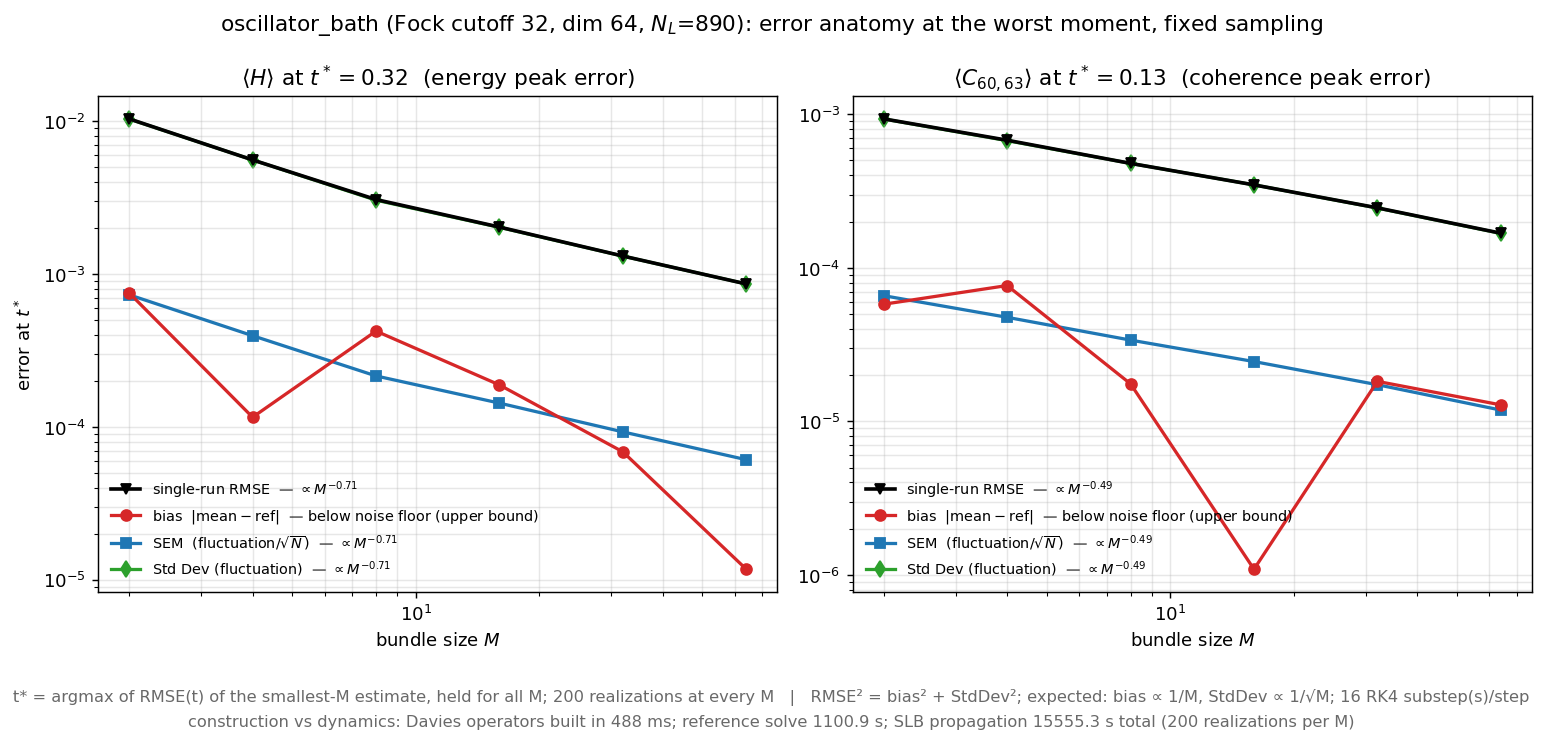
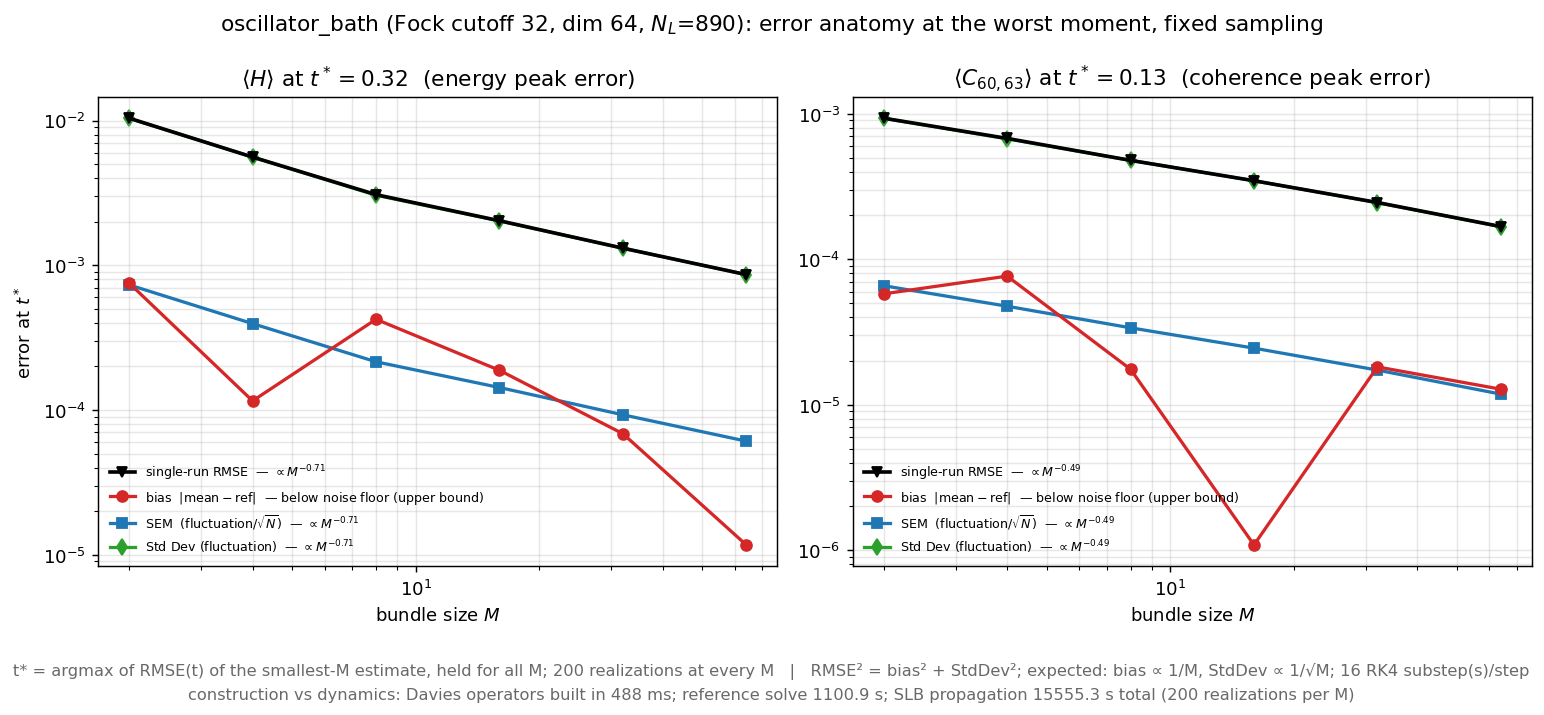
chore: permanently change degeneracy_tol from 1e-10 to 1e-5

diff --git a/benchmarks/common.py b/benchmarks/common.py
@@ -75,7 +75,7 @@ ALPHA, KT, OMEGA_C = 0.3, 0.5, 8.0
 # Absolute energy tolerance used both for degenerate eigenspaces and
 # equal Bohr-frequency sectors. Keep this central so every benchmark
 # uses and records the same strict Davies construction.
-DAVIES_DEGENERACY_TOL = 1e-10
+DAVIES_DEGENERACY_TOL = 1e-5
 
 
 def gamma(omega: float) -> float:

diff --git a/src/qutip_bundling/operators.py b/src/qutip_bundling/operators.py
@@ -141,7 +141,7 @@ def davies_operators(
     threshold: float = 0.0,
     coupling_threshold: float = 0.0,
     lamb_shift_threshold: float | None = None,
-    degeneracy_tol: float = 1e-10,
+    degeneracy_tol: float = 1e-5,
     return_bare: bool = False,
 ):
     """Build Davies/Bohr collapse operators directly from H and a coupling op.
